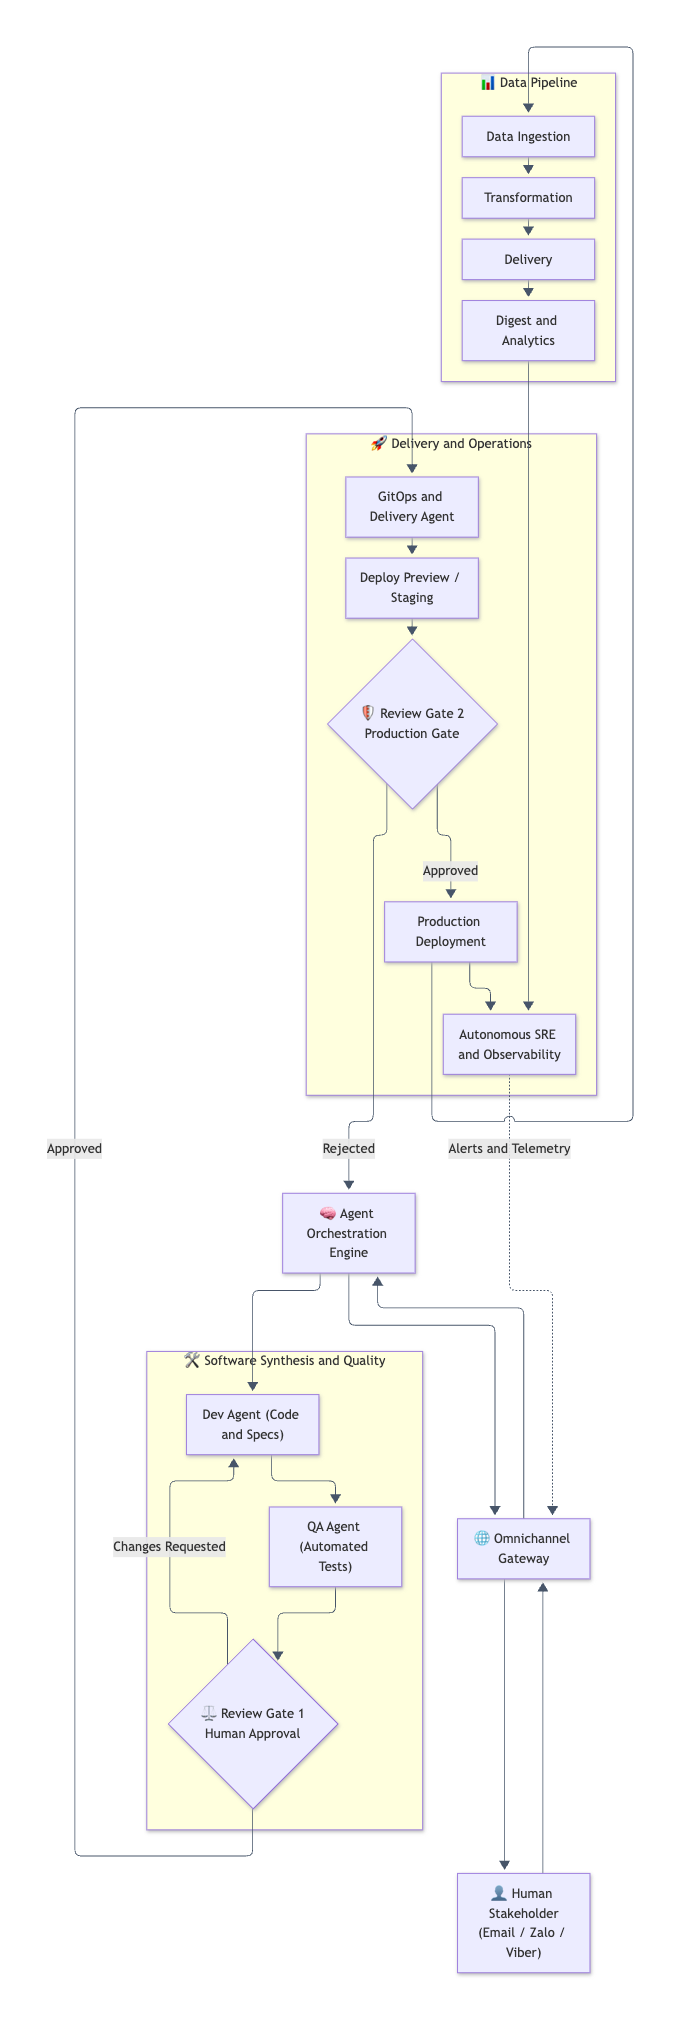
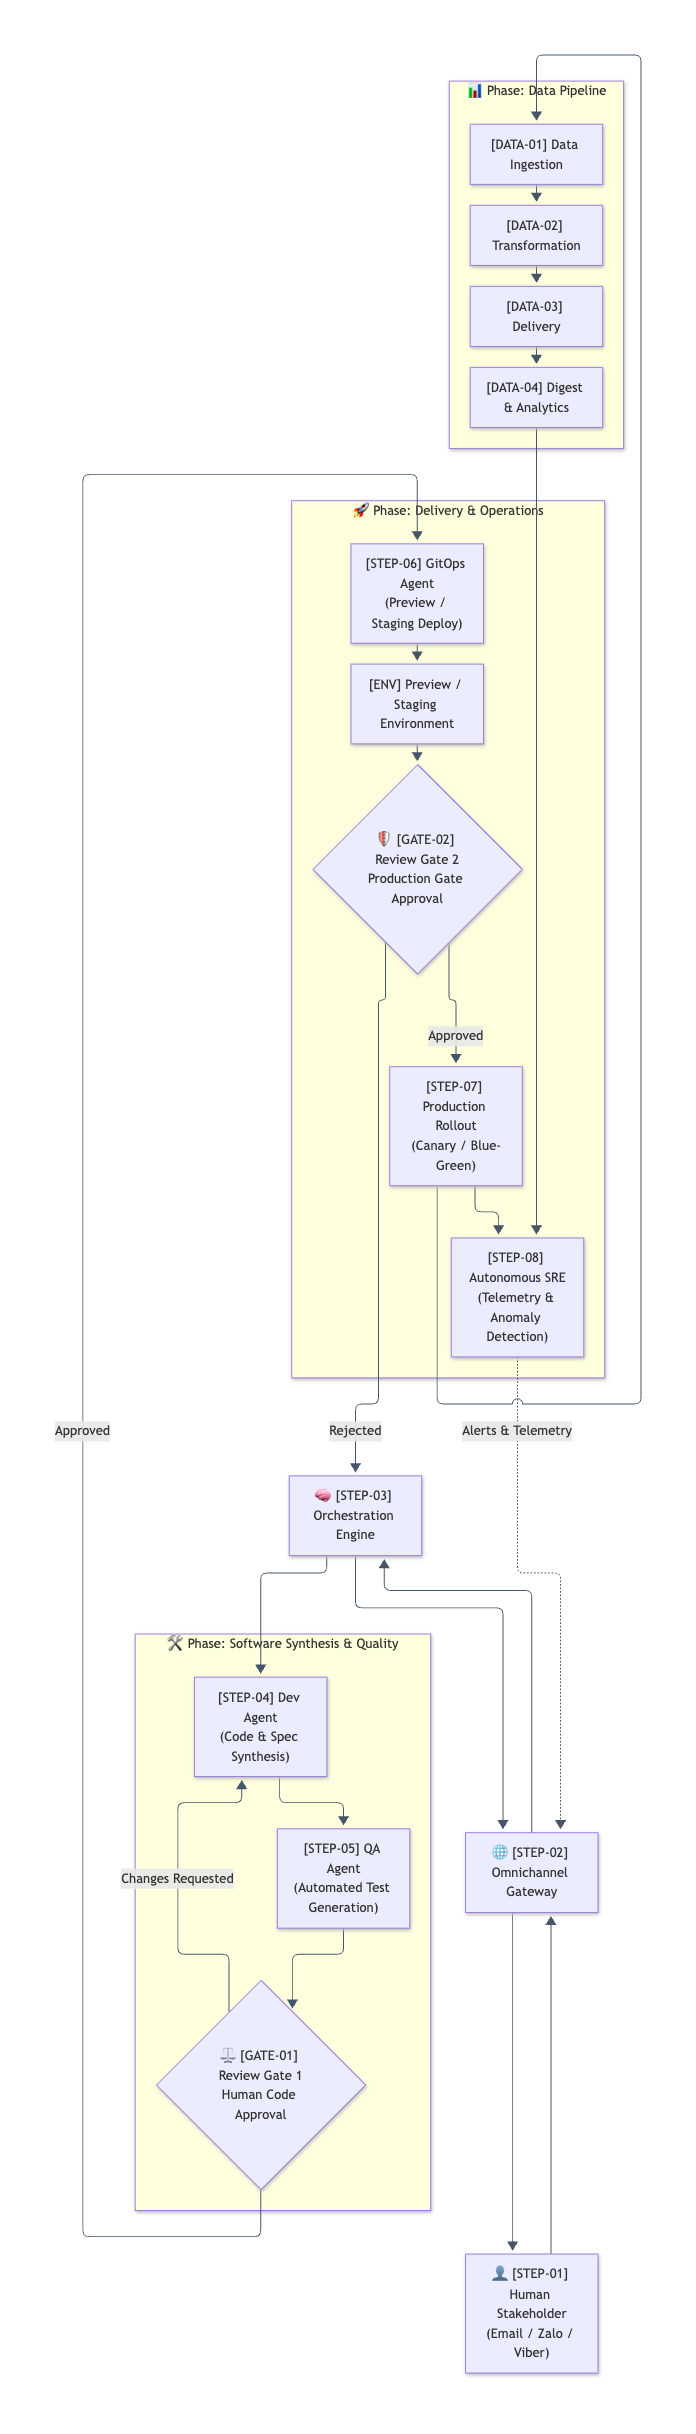
docs: extract end-to-end workflow into dedicated document with numbered steps and chart

Changed region(s): [[0.1544, 0.0311, 0.9265, 0.9951], [0.0618, 0.1866, 0.1544, 0.9018], [0.6485, 0.9329, 0.6794, 0.964]]

diff --git a/docs/workflow.md b/docs/workflow.md
@@ -1,0 +1,245 @@
+# 🔄 Stratum End-to-End Autonomous Workflow
+
+> This document provides the complete, numbered step-by-step breakdown of how **Stratum** processes an idea or change request from initial conversational intake all the way through autonomous implementation, automated validation, gated approvals, production deployment, and self-observing runtime operations.
+
+---
+
+## 🗺 Visual Architecture Diagram
+
+![Stratum End-to-End Workflow](assets/workflow.png)
+
+```mermaid
+graph TD
+    User["👤 [STEP-01] Human Stakeholder<br/>(Email / Zalo / Viber)"]
+    Gateway["🌐 [STEP-02] Omnichannel Gateway"]
+    Orchestrator["🧠 [STEP-03] Orchestration Engine"]
+
+    User --> Gateway
+    Gateway --> User
+    Gateway --> Orchestrator
+    Orchestrator --> Gateway
+
+    subgraph DevLifecycle ["🛠 Phase: Software Synthesis & Quality"]
+        DevAgent["[STEP-04] Dev Agent<br/>(Code & Spec Synthesis)"]
+        TestAgent["[STEP-05] QA Agent<br/>(Automated Test Generation)"]
+        ReviewGate1{"⚖ [GATE-01] Review Gate 1<br/>Human Code Approval"}
+
+        DevAgent --> TestAgent
+        TestAgent --> ReviewGate1
+        ReviewGate1 -->|"Changes Requested"| DevAgent
+    end
+
+    Orchestrator --> DevAgent
+    ReviewGate1 -->|"Approved"| GitOpsAgent
+
+    subgraph DeliveryOps ["🚀 Phase: Delivery & Operations"]
+        GitOpsAgent["[STEP-06] GitOps Agent<br/>(Preview / Staging Deploy)"]
+        StagingDeploy["[ENV] Preview / Staging Environment"]
+        ReviewGate2{"🛡 [GATE-02] Review Gate 2<br/>Production Gate Approval"}
+        ProdDeploy["[STEP-07] Production Rollout<br/>(Canary / Blue-Green)"]
+        AIOps["[STEP-08] Autonomous SRE<br/>(Telemetry & Anomaly Detection)"]
+
+        GitOpsAgent --> StagingDeploy
+        StagingDeploy --> ReviewGate2
+        ReviewGate2 -->|"Approved"| ProdDeploy
+        ProdDeploy --> AIOps
+    end
+
+    ReviewGate2 -->|"Rejected"| Orchestrator
+
+    subgraph DataLifecycle ["📊 Phase: Data Pipeline"]
+        Ingest["[DATA-01] Data Ingestion"]
+        Transform["[DATA-02] Transformation"]
+        Delivery["[DATA-03] Delivery"]
+        Digest["[DATA-04] Digest & Analytics"]
+
+        Ingest --> Transform
+        Transform --> Delivery
+        Delivery --> Digest
+    end
+
+    ProdDeploy --> Ingest
+    Digest --> AIOps
+    AIOps -.->|"Alerts & Telemetry"| Gateway
+```
+
+---
+
+## 📋 Quick Step Index
+
+| Identifier | Step Name | Primary Actor | Key Purpose |
+| :--- | :--- | :--- | :--- |
+| **`STEP-01`** | **Human Intake & Change Request** | Human Stakeholder | Submit prompt, bug report, or feature request via Email / Zalo / Viber |
+| **`STEP-02`** | **Omnichannel Normalization** | `stratum-gateway` | Authenticate sender, extract intent, and produce normalized event |
+| **`STEP-03`** | **Orchestration & Task Decomposition** | `stratum-orchestrator` | Decompose goal into dependency graph and assign to agent pools |
+| **`STEP-04`** | **AI Code & Specification Synthesis** | AI Dev Agent | Generate 100% of application code, API schemas, and documentation |
+| **`STEP-05`** | **Automated Test Generation & Sandbox Execution** | AI QA Agent | Synthesize 100% automated test suite; execute in sandbox container |
+| **`GATE-01`** | **Review Gate 1: Code & Architecture Approval** | Human Reviewer | Inspect proposed changes, test reports, and diffs via chat/email |
+| **`STEP-06`** | **Staging & Ephemeral Preview Deployment** | GitOps Agent | Apply declarative configs to staging/preview Kubernetes environment |
+| **`GATE-02`** | **Review Gate 2: Production Approval Gate** | Human Reviewer | Inspect staging smoke test verification and authorize production rollout |
+| **`STEP-07`** | **Automated Production Rollout** | GitOps / CI/CD Engine | Progressive zero-downtime release (Blue-Green or Canary rollout) |
+| **`STEP-08`** | **Autonomous SRE Observability** | `stratum-aiops` | Continuously observe metrics, logs, traces, and synthetic probes |
+| **`DATA-01`** | **Data Ingestion** | Data Pipeline Ingest | Continuous streaming and batch ingestion from events, DBs, and APIs |
+| **`DATA-02`** | **Data Transformation** | Data Pipeline Transform | ELT/ETL cleansing, schema validation, and event stream processing |
+| **`DATA-03`** | **Data Delivery** | Data Pipeline Delivery | Sync transformed data into caches, data warehouses, and API models |
+| **`DATA-04`** | **Data Digest & Insights** | Data Pipeline Digest | Generate automated analytical summaries, KPI reports, and telemetry |
+
+---
+
+## 🔍 Detailed Step-by-Step Breakdown
+
+### Phase 1: Conversational Intake & Task Orchestration
+
+#### `STEP-01`: Human Stakeholder Request & Intake
+* **Actor:** Human Stakeholder (Project Owner, Engineer, or Business User)
+* **Channel:** Email (`sonnormal@gmail.com`), **Zalo**, or **Viber**.
+* **Input:** Natural language description of a new feature, bug report, performance improvement, or architectural change.
+* **Process:**
+  - Stakeholder messages the Stratum bot or emails the inbox.
+  - Multi-modal attachments (screenshots, log files, design drafts) are accepted and attached to the message thread.
+* **Output:** Inbound conversational message thread.
+
+---
+
+#### `STEP-02`: Omnichannel Gateway Normalization
+* **Actor:** `stratum-gateway` service
+* **Input:** Inbound webhook payloads from Zalo Bot API, Viber Bot API, or SMTP/IMAP email.
+* **Process:**
+  1. Validates sender authorization against `.stratum/channels.yaml`.
+  2. Extracts intent, thread context, and message attachments.
+  3. Translates raw chat/email messages into a standard internal CloudEvent schema.
+  4. Dispatches an immediate confirmation acknowledgement back to the sender.
+* **Output:** Normalized `TaskIntentEvent` sent to the Orchestration Engine.
+
+---
+
+#### `STEP-03`: Agent Orchestration & Task Decomposition
+* **Actor:** `stratum-orchestrator` (Autonomous Brain)
+* **Input:** `TaskIntentEvent` from the gateway.
+* **Process:**
+  1. Retrieves existing repository context, architecture decision records, and API contracts.
+  2. Synthesizes an execution plan: decomposes the request into discrete subtasks (Code changes, Test authoring, Schema updates, Docs).
+  3. Determines affected microservices (`stratum-services/*`, `stratum-data-platform`, etc.).
+  4. Dispatches task orders to specialized agent worker queues.
+* **Output:** Stateful task graph with assigned agent responsibilities.
+
+---
+
+### Phase 2: Software Factory (Synthesis & Verification)
+
+#### `STEP-04`: AI Dev Agent — Code & Spec Synthesis
+* **Actor:** AI Dev Agent (Specialized coding model instance)
+* **Input:** Assigned subtask specification and scoped repository context.
+* **Process:**
+  1. Creates an isolated feature branch (e.g. `agent/feature-user-auth`).
+  2. Synthesizes 100% of domain business code adhering to ecosystem coding standards.
+  3. Updates OpenAPI / AsyncAPI schema specifications and documentation artifacts.
+  4. Runs linting and static analysis to guarantee zero syntax or typing errors.
+* **Output:** Git commit and draft pull request with code and updated technical artifacts.
+
+---
+
+#### `STEP-05`: AI QA Agent — Automated Test Generation & Execution
+* **Actor:** AI QA Agent (Specialized testing model instance)
+* **Input:** Newly synthesized code and PR diff from `STEP-04`.
+* **Process:**
+  1. Generates 100% automated test suites:
+     - Unit tests for edge cases, boundaries, and validation rules.
+     - Integration tests verifying database and external API contract interactions.
+     - End-to-end (E2E) workflow tests simulating user journeys.
+  2. Executes all test suites in an isolated ephemeral test sandbox.
+  3. Generates code coverage and performance benchmark reports.
+* **Output:** Fully automated test suite committed to the branch, accompanied by test execution logs and verification metrics.
+
+---
+
+### Phase 3: Human-in-the-Loop Governance Checkpoint 1
+
+#### `GATE-01`: Review Gate 1 — Human Code & Architecture Approval
+* **Actor:** Human Reviewer (via conversational channel)
+* **Trigger:** QA tests pass with 100% success rate in sandbox.
+* **Notification Delivered:**
+  - Sent to **Email** (`sonnormal@gmail.com`), **Zalo**, and **Viber**.
+  - Includes: High-level change summary, PR diff link, test pass/fail metrics, and interactive action buttons.
+* **Decisions:**
+  * **Option A: `[Approve]`** $\rightarrow$ Advances immediately to **`STEP-06`** (Staging & Ephemeral Preview Deployment).
+  * **Option B: `[Changes Requested]`** $\rightarrow$ Re-routes back to **`STEP-04`** (Dev Agent) with human feedback notes for autonomous refinement.
+  * **Option C: `[Reject]`** $\rightarrow$ Terminates execution, closes branch, and logs reason to audit trail.
+
+---
+
+### Phase 4: Staging, Pre-Production Gate & Delivery
+
+#### `STEP-06`: GitOps Staging & Ephemeral Preview Deployment
+* **Actor:** GitOps Delivery Agent (`stratum-gitops`)
+* **Input:** Approved pull request from `GATE-01`.
+* **Process:**
+  1. Triggers automated CI pipeline: builds and tags container images.
+  2. Updates declarative Kubernetes manifests / Helm charts in `stratum-gitops`.
+  3. Spins up an ephemeral preview environment or updates the staging cluster.
+  4. Executes automated smoke tests and health checks against the running staging workload.
+* **Output:** Running staging environment with an accessible preview URL and automated health report.
+
+---
+
+#### `GATE-02`: Review Gate 2 — Production Gate Approval
+* **Actor:** Human Reviewer
+* **Trigger:** Successful deployment and healthy smoke checks in preview/staging environment.
+* **Notification Delivered:**
+  - Dispatched to **Email** (`sonnormal@gmail.com`), **Zalo**, and **Viber**.
+  - Includes: Preview URL, smoke test report, performance baseline comparison, and rollback plan.
+* **Decisions:**
+  * **Option A: `[Approve]`** $\rightarrow$ Advances to **`STEP-07`** (Automated Production Rollout).
+  * **Option B: `[Reject / Abort]`** $\rightarrow$ Re-routes back to **`STEP-03`** (Orchestrator) to cancel the rollout and tear down the preview environment.
+
+---
+
+#### `STEP-07`: Automated Production Rollout
+* **Actor:** GitOps Delivery Engine (ArgoCD / Flux)
+* **Input:** Cryptographic approval token from `GATE-02`.
+* **Process:**
+  1. Merges feature PR into `main` branch.
+  2. Initiates progressive rollout (Canary or Blue-Green deployment strategy).
+  3. Automatically shifts traffic from active version to new version while monitoring error rates and latency.
+  4. In case of unexpected production errors, automated rollbacks are triggered instantly without human intervention.
+* **Output:** Successfully deployed production release with zero downtime.
+
+---
+
+### Phase 5: Autonomous Operations, Observability & Feedback Loop
+
+#### `STEP-08`: Autonomous SRE Monitoring & Telemetry
+* **Actor:** `stratum-aiops` (Autonomous Site Reliability Agent)
+* **Input:** Continuous telemetry stream (OpenTelemetry traces, Prometheus metrics, structured logs, synthetic transaction probes).
+* **Process:**
+  1. Continuously tracks Service Level Objectives (SLOs) and golden signals (Latency, Traffic, Errors, Saturation).
+  2. Runs ML-driven anomaly detection to identify performance degradation or runtime regressions.
+  3. If anomalies are detected:
+     - Automatically isolates logs and traces for root cause analysis (RCA).
+     - Formulates a diagnostic summary and suggested fix.
+     - Dispatches real-time alerts back through `STEP-02` (Gateway) to **Email**, **Zalo**, and **Viber**.
+* **Output:** Real-time health metrics, automated RCAs, and incident alerts.
+
+---
+
+### Parallel Stream: End-to-End Data Platform Lifecycle
+
+#### `DATA-01`: Data Ingestion
+* **Actor:** Data Pipeline Ingestion Service (`stratum-data-platform`)
+* **Process:** Ingests raw data from external APIs, webhooks, transaction databases, and event streaming brokers (Kafka/RabbitMQ).
+* **Output:** Raw partitioned data landing zones with event validation.
+
+#### `DATA-02`: Data Transformation
+* **Actor:** Transformation Engine (dbt / stream processing workers)
+* **Process:** Applies schema enforcement, deduplication, business logic transformations, and data quality assertions.
+* **Output:** Curated, query-optimized datasets and dimensional models.
+
+#### `DATA-03`: Data Delivery
+* **Actor:** Delivery Engine
+* **Process:** Distributes transformed data to consumer endpoints: analytical data warehouses, operational cache stores, and downstream microservice databases.
+* **Output:** Ready-to-query synchronized operational state.
+
+#### `DATA-04`: Data Digest & Analytics
+* **Actor:** Autonomous Digest Worker
+* **Process:** Computes aggregated KPIs, monitors trends, and compiles scheduled business & operational digests dispatched directly to stakeholder channels. Feeds continuous quality metrics back into `STEP-08` (AIOps).
+* **Output:** Executive & operational summary reports delivered to Email and Chat.

diff --git a/README.md b/README.md
@@ -51,62 +51,29 @@ Human stakeholders maintain strategic governance and oversight through lightweig
 
 ## 🔄 End-to-End Workflow
 
-![Stratum End-to-End Workflow](docs/assets/workflow.png)
+Stratum operates as a continuous, closed-loop software delivery and operations lifecycle with explicit human review checkpoints.
 
-```mermaid
-graph TD
-    User["👤 Human Stakeholder<br/>(Email / Zalo / Viber)"]
-    Gateway["🌐 Omnichannel Gateway"]
-    Orchestrator["🧠 Agent Orchestration Engine"]
+[![Stratum End-to-End Workflow](docs/assets/workflow.png)](docs/workflow.md)
 
-    User --> Gateway
-    Gateway --> User
-    Gateway --> Orchestrator
-    Orchestrator --> Gateway
+👉 **For the complete numbered breakdown of each step, see [docs/workflow.md](docs/workflow.md).**
 
-    subgraph DevLifecycle ["🛠 Software Synthesis and Quality"]
-        DevAgent["Dev Agent (Code and Specs)"]
-        TestAgent["QA Agent (Automated Tests)"]
-        ReviewGate1{"⚖ Review Gate 1<br/>Human Approval"}
+### Key Lifecycle Phases & Checkpoints
 
-        DevAgent --> TestAgent
-        TestAgent --> ReviewGate1
-        ReviewGate1 -->|"Changes Requested"| DevAgent
-    end
+| Step / Gate | Phase | Actor | Description |
+| :--- | :--- | :--- | :--- |
+| **`STEP-01`** | **Intake** | Human Stakeholder | Conversational request via Email (`sonnormal@gmail.com`), Zalo, or Viber |
+| **`STEP-02`** | **Gateway** | `stratum-gateway` | Webhook ingestion, sender authentication & event normalization |
+| **`STEP-03`** | **Orchestration** | `stratum-orchestrator` | Task decomposition and assignment to specialized agent pools |
+| **`STEP-04`** | **Synthesis** | AI Dev Agent | 100% autonomous code, OpenAPI/AsyncAPI specs, and architecture docs |
+| **`STEP-05`** | **Validation** | AI QA Agent | 100% automated test generation (unit, integration, E2E) in sandbox |
+| **`GATE-01`** | **Review Gate 1** | **Human Reviewer** | **Interactive Code & Architecture Checkpoint (Approve / Revise / Reject)** |
+| **`STEP-06`** | **Staging** | GitOps Agent | Ephemeral preview environment deployment & automated smoke tests |
+| **`GATE-02`** | **Review Gate 2** | **Human Reviewer** | **Production Authorization Checkpoint** |
+| **`STEP-07`** | **Rollout** | GitOps Engine | Automated zero-downtime production deployment (Blue-Green / Canary) |
+| **`STEP-08`** | **AIOps** | `stratum-aiops` | Continuous telemetry monitoring, anomaly detection & automated RCA alerts |
+| **`DATA-01..04`**| **Data Platform** | Data Engine | End-to-end data pipeline: Ingestion $\rightarrow$ Transform $\rightarrow$ Delivery $\rightarrow$ Digest |
 
-    Orchestrator --> DevAgent
-    ReviewGate1 -->|"Approved"| GitOpsAgent
-
-    subgraph DeliveryOps ["🚀 Delivery and Operations"]
-        GitOpsAgent["GitOps and Delivery Agent"]
-        StagingDeploy["Deploy Preview / Staging"]
-        ReviewGate2{"🛡 Review Gate 2<br/>Production Gate"}
-        ProdDeploy["Production Deployment"]
-        AIOps["Autonomous SRE and Observability"]
-
-        GitOpsAgent --> StagingDeploy
-        StagingDeploy --> ReviewGate2
-        ReviewGate2 -->|"Approved"| ProdDeploy
-        ProdDeploy --> AIOps
-    end
-
-    ReviewGate2 -->|"Rejected"| Orchestrator
-
-    subgraph DataLifecycle ["📊 Data Pipeline"]
-        Ingest["Data Ingestion"]
-        Transform["Transformation"]
-        Delivery["Delivery"]
-        Digest["Digest and Analytics"]
-
-        Ingest --> Transform
-        Transform --> Delivery
-        Delivery --> Digest
-    end
-
-    ProdDeploy --> Ingest
-    Digest --> AIOps
-    AIOps -.->|"Alerts and Telemetry"| Gateway
-```
+*Read the comprehensive operational specification in [docs/workflow.md](docs/workflow.md).*
 
 ---
 
